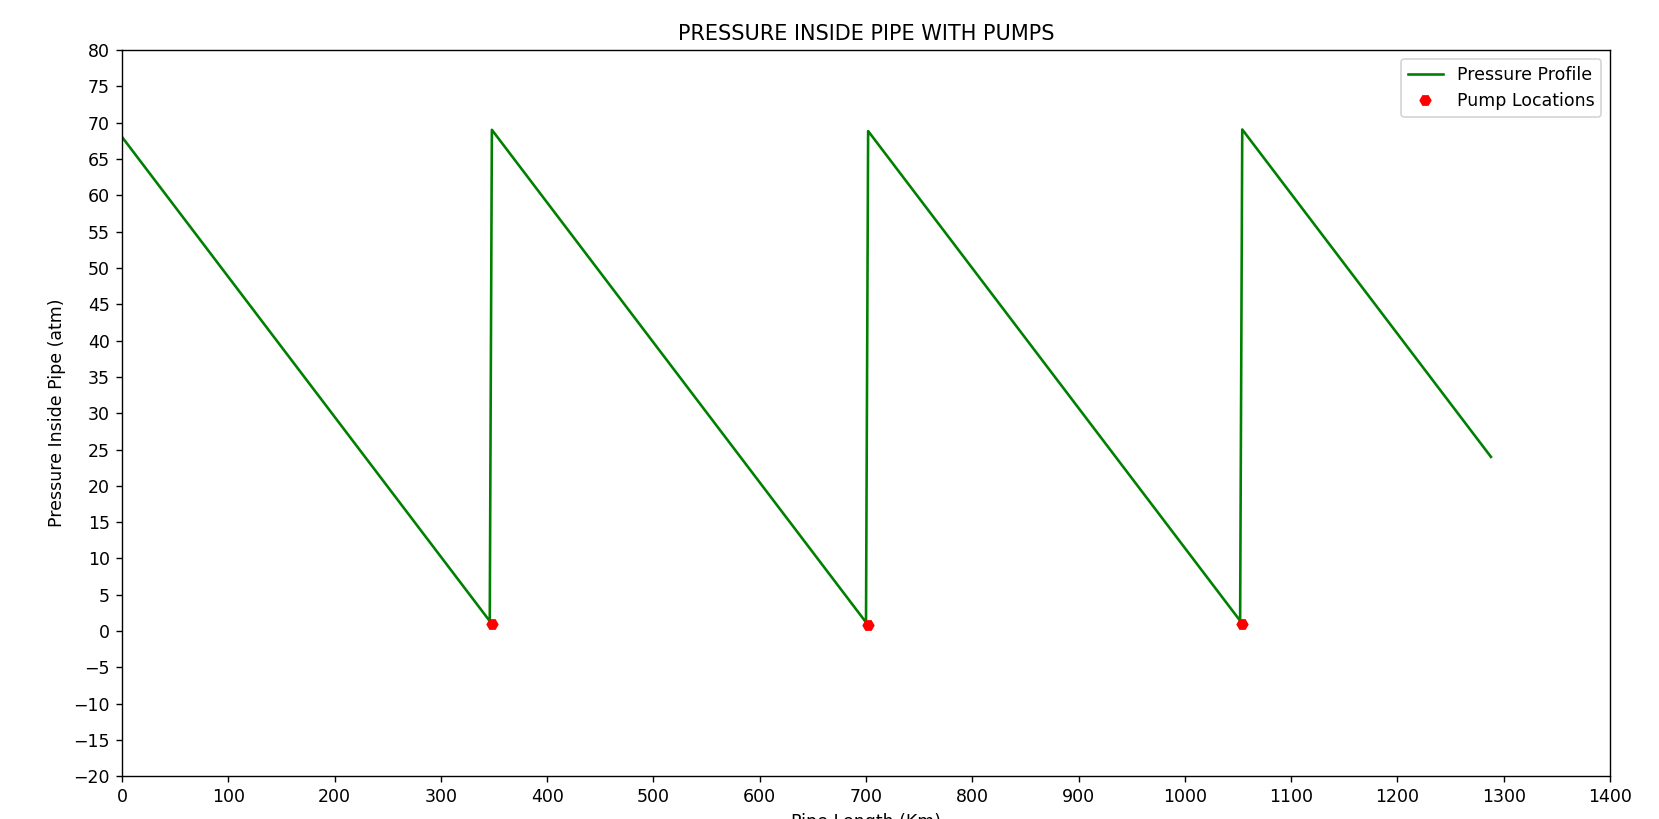
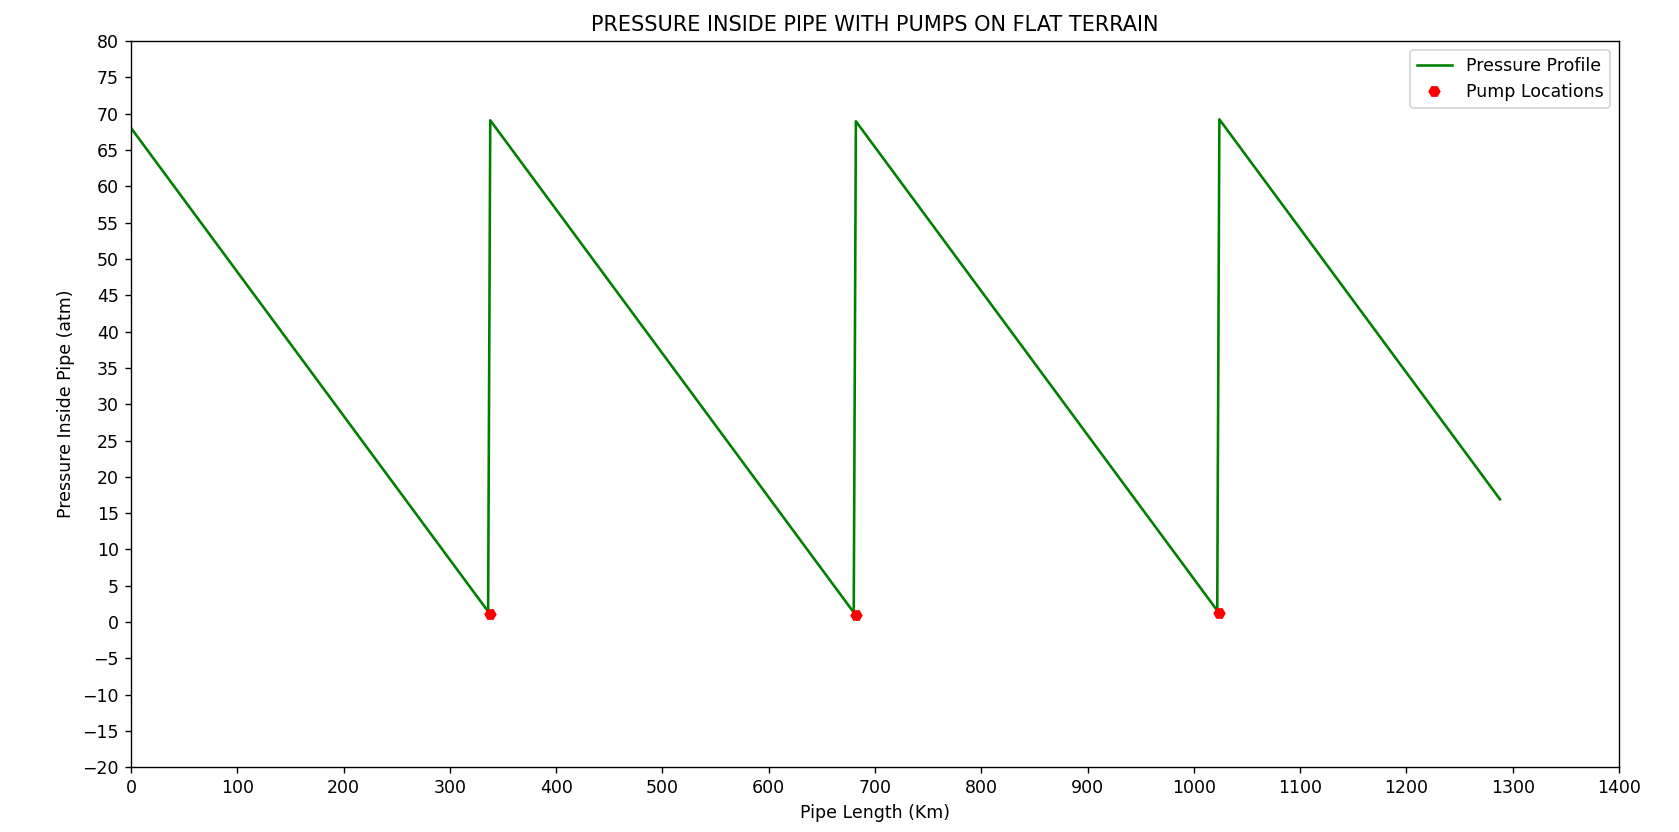
fD formula changed

diff --git a/Codes/LevelPipeWithPump.py b/Codes/LevelPipeWithPump.py
@@ -9,7 +9,7 @@ REST ALL THINGS CALCULATED AS DESCRIBED IN README.MD
 PaToAtm=9.8692e-6 #pascal to atm conversion factor e-6 means 10^-6
 RHO=865           # DENSITY OF OIL (kg/m^3)
 g=9.81            # ACCELERATION DUE TO GRAVITY (m/s^2)
-FHeadPerMeter=0.002301 # FRICTIONAL HEAD LOSS(m)
+FHeadPerMeter=0.0023666 # FRICTIONAL HEAD LOSS(m)
 
 ''' Lets assume only one pump(1000 psi)connected to the system at the initial location X=0 '''
 
@@ -43,7 +43,7 @@ plt.gca().xaxis.set_major_locator(tk.MultipleLocator(100))
 plt.plot(X,Pump,"Hr")
 plt.xlabel("Pipe Length (Km)")      #setting labels
 plt.ylabel("Pressure Inside Pipe (atm)")#setting labels
-plt.title("PRESSURE INSIDE PIPE WITH PUMPS") #setting labels
+plt.title("PRESSURE INSIDE PIPE WITH PUMPS ON FLAT TERRAIN") #setting labels
 plt.legend(["Pressure Profile","Pump Locations"])
 plt.show()  # Show the graph
 

diff --git a/Codes/LevelPipe.py b/Codes/LevelPipe.py
@@ -9,14 +9,14 @@ REST ALL THINGS CALCULATED AS DESCRIBED IN README.MD
 PaToAtm=9.8692e-6 #pascal to atm conversion factor e-6 means 10^-6
 RHO=865           # DENSITY OF OIL (kg/m^3)
 g=9.81            # ACCELERATION DUE TO GRAVITY (m/s^2)
-FHeadPerMeter=0.002301 # FRICTIONAL HEAD LOSS(m)
+FHeadPerMeter=0.0023666 # FRICTIONAL HEAD LOSS(m)
 
 ''' Lets assume only one pump(1000 psi)connected to the system at the initial location X=0 '''
 
 P_inital=68.046  #atm
 
 #defining arrays for storing pipeline length, Pressure values, and Friction losses 
-X=np.arange(0,1289,2) # ARRAY OF DISTANCES (KM)
+X=np.arange(0,1289,1) # ARRAY OF DISTANCES (KM)
 P=np.zeros(X.shape)      # ARRAY OF PRESSURE (m)
 FLoss=np.zeros(X.shape)  # ARRAY OF FRICTIONAL LOSSES (m)
 

diff --git a/Codes/terraingenerate.py b/Codes/terraingenerate.py
@@ -1,0 +1,17 @@
+import numpy as np
+import matplotlib.pyplot as plt
+
+#defining arrays for storing pipeline length, Elevation with two mountains 
+X=np.arange(0,1289,2) # ARRAY OF DISTANCES (KM)
+Z=np.zeros(X.shape)
+Z1=np.sin(np.radians(np.concatenate((np.linspace(0,90,45),np.linspace(90,180,46)))))
+Z2=np.sin(np.radians(np.concatenate((np.linspace(0,50,20),np.full((1,),50),np.linspace(50,0,30)))))
+print(Z.shape)
+Z[200:200+len(Z1)]=Z1
+Z[420:420+len(Z2)]=Z2
+print(Z)
+plt.plot(X,Z,"r")
+plt.xlabel("PIPELINE LENGTH")
+plt.ylabel("ELEVATION")
+plt.title("ELEVATION DATA")
+plt.show()
